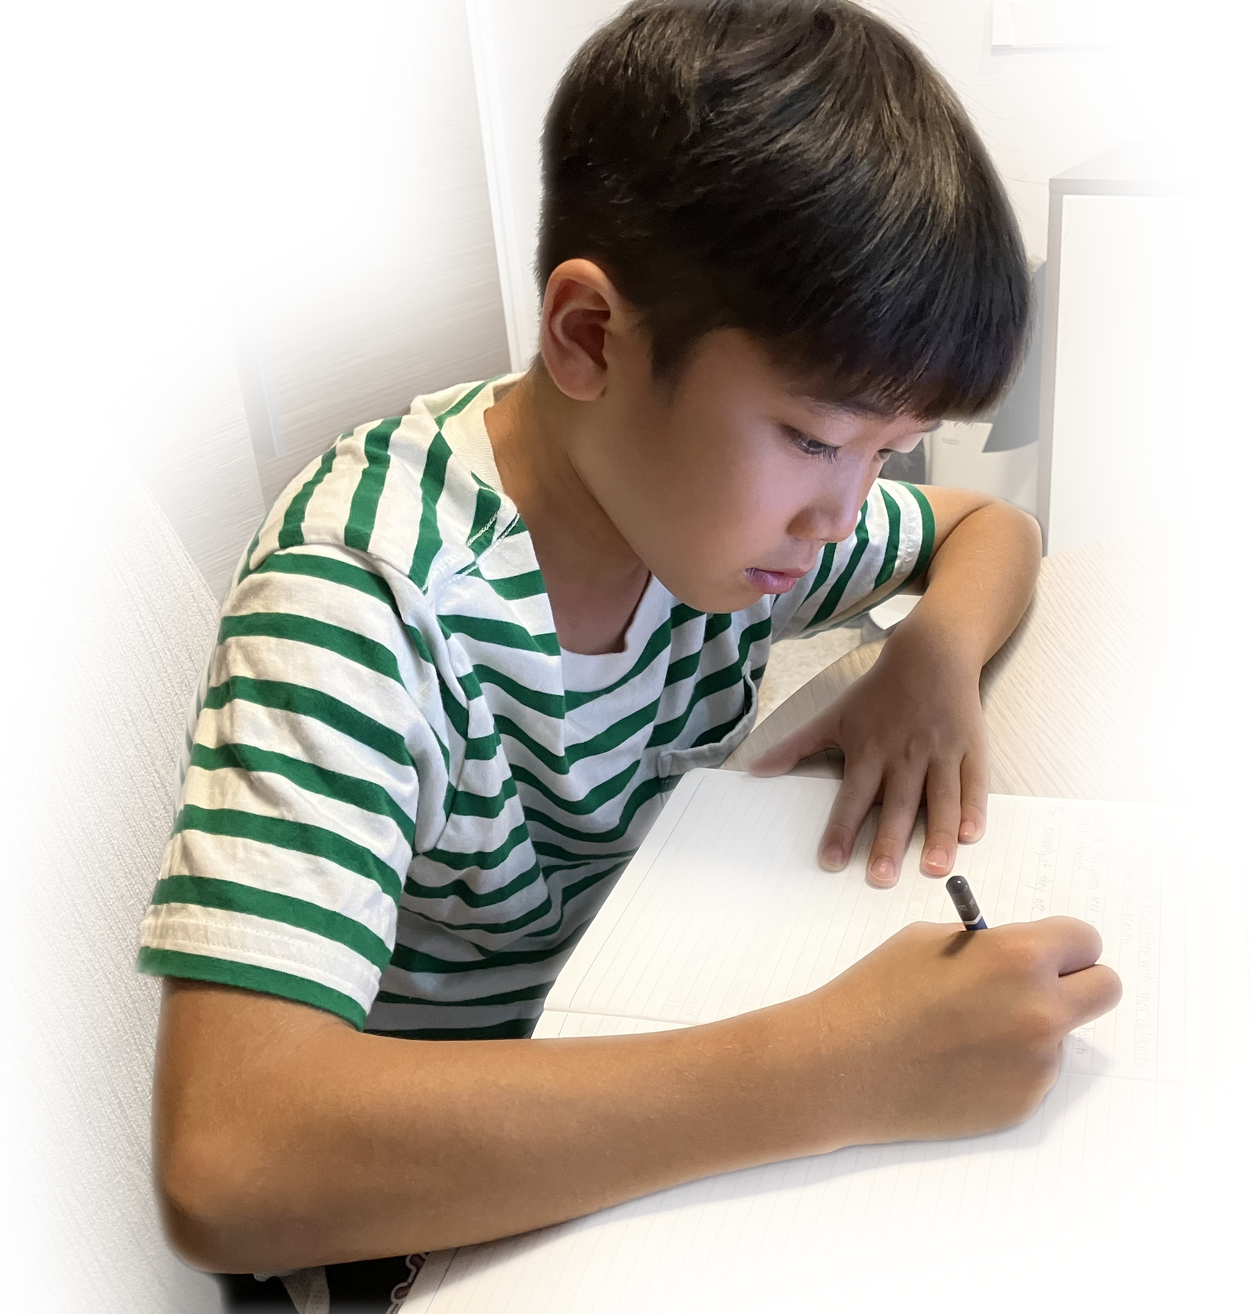
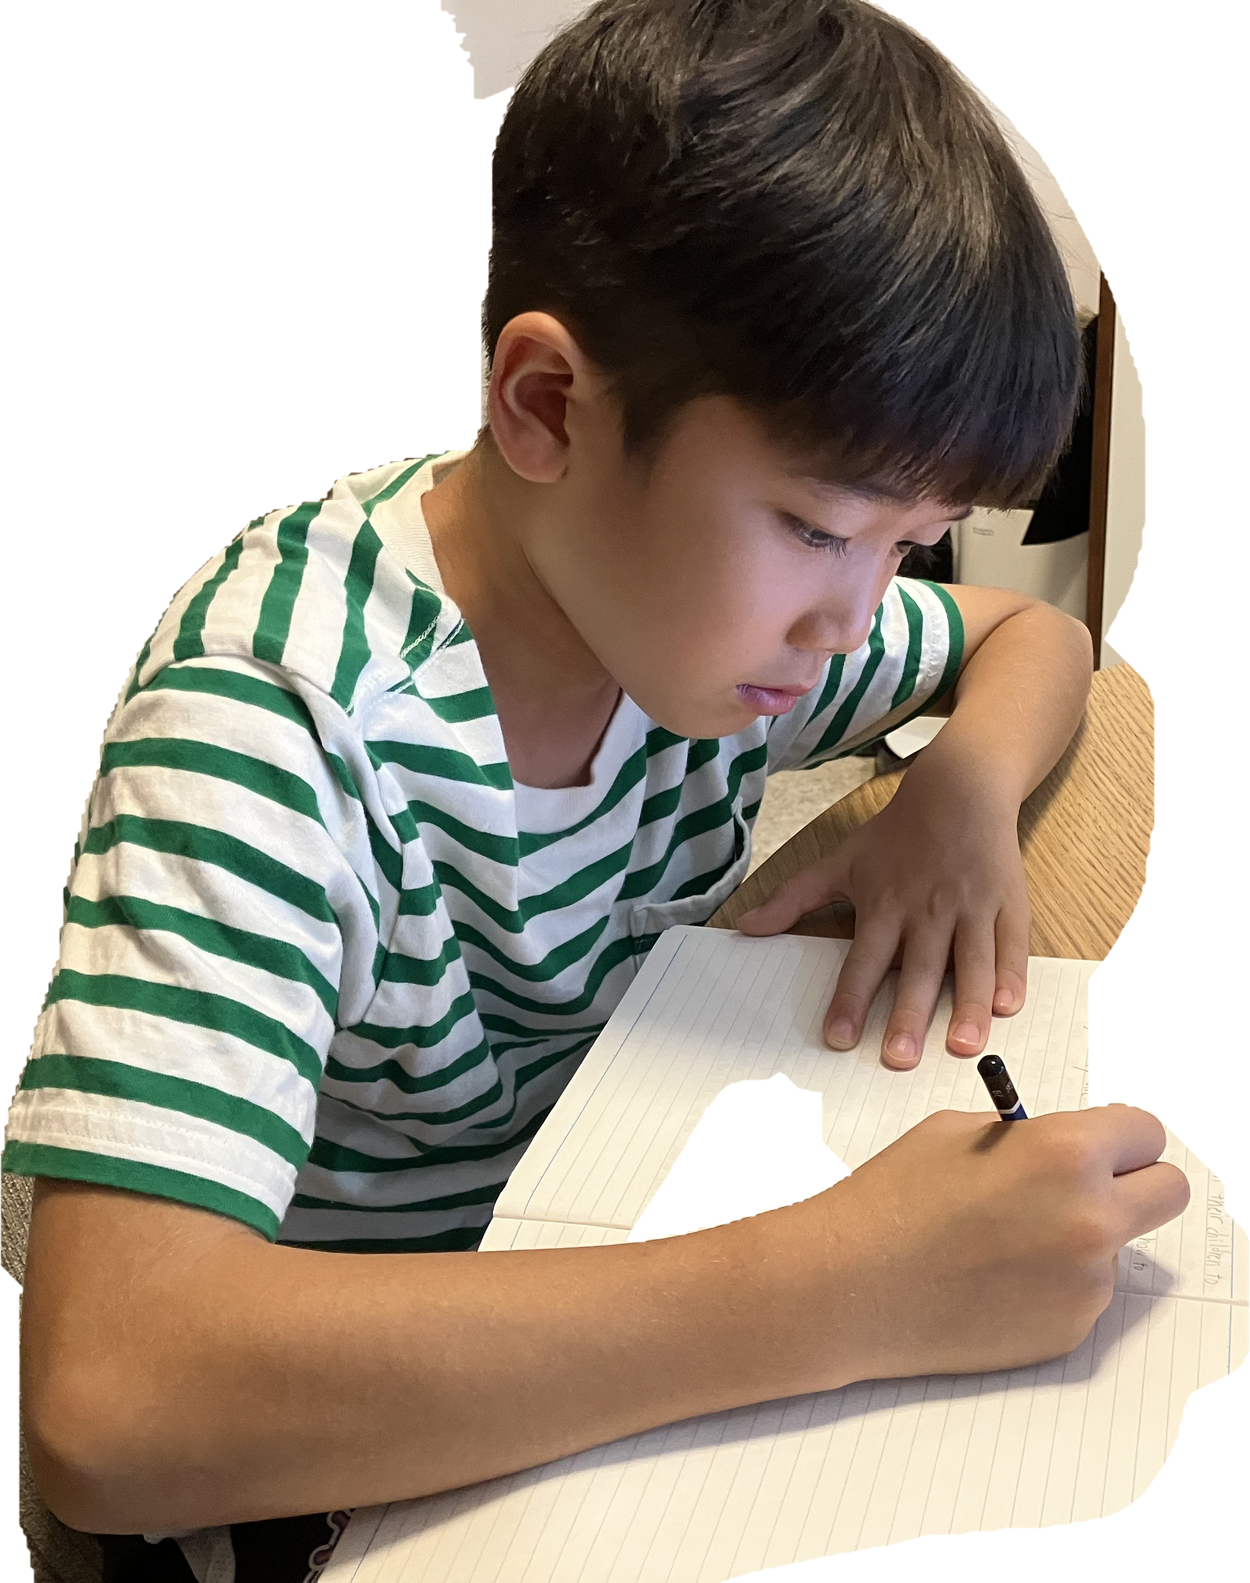
FVを綺麗な切り抜きに（人物＋勉強道具・端はぼかさない）／動画をその場で再生／差し色を黄に／声の上の帯を削除／濃い緑の面＋白いカードで後半の白さを解消

diff --git a/docs/esl/index.html b/docs/esl/index.html
@@ -29,8 +29,9 @@
   --c-primary-2:#6CBB00;    /* 黄緑。線・小ラベル・アイコンのみ。面に塗らない */
   --c-support:#00B63A;      /* 補強。小さく1点 */
   --c-support2:#FFEE03;     /* 補強。小さく1点 */
-  --c-accent:#FF9301;
-  --c-accent-d:#D97A00;       /* 差し色。最小の1点にだけ */
+  --c-accent:#FFEE03;       /* 差し色（黄）。最小の1点にだけ */
+  --c-accent-d:#E0CF00;
+  --c-on-accent:#303030;    /* 黄の上は墨。白は乗らない */
   --c-ink:#303030;
   --c-ink2:#4A4A4A;
   --c-ink3:#707070;
@@ -122,6 +123,16 @@ ul,ol{padding:0;list-style:none}
 /* ブランド色の面。白ばかりにならないよう、白／薄グレーと交互に使う */
 .tone-accent{background:var(--c-primary-l)}
 .tone-pale{background:linear-gradient(180deg,#F4F9EE 0%,var(--c-primary-l) 100%)}
+/* ブランド色のベタ面。前に白いブロックを置くのが条件 */
+.tone-brand{background:var(--c-primary);color:var(--c-on-primary);position:relative;overflow:hidden}
+.tone-brand .sec-head__ja{color:var(--c-on-primary)}
+.tone-brand .sec-head__sub{color:rgba(255,255,255,.86)}
+.tone-brand .sec-head::after{background:var(--c-accent)}
+/* 濃い緑の上に置く箱は白。中の文字は元の色に戻す */
+.tone-brand .card,.tone-brand .nch__chip,.tone-brand .cmx__grid{background:var(--c-bg)}
+.tone-brand .nch__chip{color:var(--c-ink);border-color:transparent}
+.tone-brand .nch__note{color:rgba(255,255,255,.8)}
+
 /* ★#262626 の面。前に大きめの白いブロックを置くことが条件 */
 .tone-deep,.tone-dark{background:var(--c-dark);color:var(--c-on-dark2)}
 
@@ -588,10 +599,14 @@ html:not(.js) .lm__i{transform:none}
 .gvb__grid{display:grid;grid-template-columns:repeat(2,minmax(0,1fr));gap:clamp(18px,3vw,40px)}
 .gvb__item{margin:0}
 .gvb__card{display:block;transition:transform .16s var(--e)}
-.gvb__thumb{position:relative;display:block;border-radius:22px;overflow:hidden;
+.gvb__thumb{display:block;width:100%;padding:0;border:0;background:none;cursor:pointer}
+.gvb__thumb{position:relative;border-radius:22px;overflow:hidden;
   border:6px solid var(--c-primary-2);background:var(--c-bg2)}
 .gvb__item:nth-child(even) .gvb__thumb{border-color:var(--c-primary)}
 .gvb__thumb img{width:100%;aspect-ratio:16/10;object-fit:cover;display:block}
+/* 押すとその場で YouTube に差し替わる */
+.gvb__thumb iframe{width:100%;aspect-ratio:16/10;display:block;border:0}
+.gvb__thumb.is-play .gvb__play{display:none}
 /* 再生ボタン：右下・円・縁と同じ色 */
 .gvb__play{position:absolute;right:16px;bottom:16px;width:clamp(44px,4.6vw,64px);aspect-ratio:1;
   border-radius:50%;background:var(--c-primary-2);display:grid;place-content:center}
@@ -603,6 +618,7 @@ html:not(.js) .lm__i{transform:none}
 .gvb__item:nth-child(even) .gvb__card{transform:rotate(1.1deg)}
 @media(hover:hover) and (pointer:fine){.gvb__card:hover{transform:rotate(0) translateY(-4px)}}
 .gvb__cap{display:block;margin-top:14px;text-align:center}
+.gvb__cap b,.gvb__cap em{display:block}
 .gvb__cap b{display:block;font-size:clamp(11px,.9vw,12.5px);color:var(--c-ink3);font-weight:700}
 .gvb__cap em{display:block;margin-top:3px;font-style:normal;
   font-size:clamp(15px,1.4vw,19px);font-weight:900;color:var(--c-ink)}
@@ -935,13 +951,10 @@ html:not(.js) .lm__i{transform:none}
 /* ===== voice/voice-band-illustration ===== */
 /* voice/voice-band-illustration
    トミーそろばん教室の作りを再現して起こした型。
-   ・セクションの上端に【色の帯】を敷く
    ・左に小さな人物、右に 見出し（ブランド色）→ 属性 → 本文
    ・見出しはブランド色。本文は行間を広めに取って長文でも読ませる
    再現の記録: repro/vbi/ */
 .vbi{position:relative}
-.vbi__band{position:absolute;left:0;right:0;top:0;height:clamp(28px,3.4vw,46px);
-  background:var(--c-support2);opacity:.85}
 .vbi .wrap{position:relative;z-index:1}
 
 .vbi__list{display:grid;gap:clamp(30px,4.6vw,64px)}
@@ -1842,27 +1855,23 @@ html:not(.js) .lm__i{transform:none}
     </div>
     <ul class="gvb__grid">
       <li class="gvb__item fx" data-fx="fadeup" data-d="0">
-        <a class="gvb__card" href="https://www.youtube.com/watch?v=7TLrJshYhXY" target="_blank" rel="noopener">
-          <span class="gvb__thumb">
+        <div class="gvb__card">
+          <button class="gvb__thumb" type="button" data-yt="7TLrJshYhXY"
+                  aria-label="ハシモトカズマくん のレッスン動画を再生">
             <img src="img/yt_1.jpg" alt="小3男子 初学者のレッスン" loading="lazy">
             <span class="gvb__play" aria-hidden="true"></span>
-          </span>
-          <span class="gvb__cap">
-            <b>小3男子　初学者</b>
-            <em>ハシモトカズマくん</em>
-          </span>
-        </a>
+          </button>
+          <p class="gvb__cap"><b>小3男子　初学者</b><em>ハシモトカズマくん</em></p>
+        </div>
       </li><li class="gvb__item fx" data-fx="fadeup" data-d="90">
-        <a class="gvb__card" href="https://www.youtube.com/watch?v=d1pNo4ETKYc" target="_blank" rel="noopener">
-          <span class="gvb__thumb">
+        <div class="gvb__card">
+          <button class="gvb__thumb" type="button" data-yt="d1pNo4ETKYc"
+                  aria-label="オオツカキサちゃん のレッスン動画を再生">
             <img src="img/yt_2.jpg" alt="小4女子 学習経験者のレッスン" loading="lazy">
             <span class="gvb__play" aria-hidden="true"></span>
-          </span>
-          <span class="gvb__cap">
-            <b>小4女子　学習経験者</b>
-            <em>オオツカキサちゃん</em>
-          </span>
-        </a>
+          </button>
+          <p class="gvb__cap"><b>小4女子　学習経験者</b><em>オオツカキサちゃん</em></p>
+        </div>
       </li>
     </ul>
     
@@ -2062,7 +2071,6 @@ html:not(.js) .lm__i{transform:none}
 <!-- voice/voice-band-illustration (tint) -->
 <div class="tone-tint">
 <section class="sec vbi">
-  <span class="vbi__band" aria-hidden="true"></span>
   <div class="wrap">
     <div class="sec-head">
       
@@ -2099,8 +2107,8 @@ html:not(.js) .lm__i{transform:none}
 </section>
 
 </div>
-<!-- numbers/numbers-chip-row (base) -->
-<div class="tone-base">
+<!-- numbers/numbers-chip-row (brand) -->
+<div class="tone-brand">
 <section class="sec nch nch--wordy">
   <div class="wrap">
 
@@ -2809,6 +2817,23 @@ document.documentElement.classList.add('js');
   }
   addEventListener('scroll',check,{passive:true}); addEventListener('resize',check,{passive:true});
   setTimeout(check,120);
+})();
+
+/* ── 動画をその場で再生 ─────────────────────
+   サムネイルを押したら YouTube の埋め込みに差し替える。
+   最初から iframe を置くと読み込みが重く、外部に足跡も残るため押されてから作る。 */
+(function(){
+  document.querySelectorAll('[data-yt]').forEach(function(b){
+    b.addEventListener('click',function(){
+      var id=b.dataset.yt; if(!id||b.classList.contains('is-play')) return;
+      var f=document.createElement('iframe');
+      f.src='https://www.youtube-nocookie.com/embed/'+id+'?autoplay=1&rel=0&playsinline=1';
+      f.title=b.getAttribute('aria-label')||'';
+      f.allow='accelerometer;autoplay;clipboard-write;encrypted-media;gyroscope;picture-in-picture';
+      f.setAttribute('allowfullscreen','');
+      b.innerHTML=''; b.appendChild(f); b.classList.add('is-play');
+    });
+  });
 })();
 </script>
 </body>

diff --git a/parts/gallery/gallery-video-cards-bordered/part.css b/parts/gallery/gallery-video-cards-bordered/part.css
@@ -7,10 +7,14 @@
 .gvb__grid{display:grid;grid-template-columns:repeat(2,minmax(0,1fr));gap:clamp(18px,3vw,40px)}
 .gvb__item{margin:0}
 .gvb__card{display:block;transition:transform .16s var(--e)}
-.gvb__thumb{position:relative;display:block;border-radius:22px;overflow:hidden;
+.gvb__thumb{display:block;width:100%;padding:0;border:0;background:none;cursor:pointer}
+.gvb__thumb{position:relative;border-radius:22px;overflow:hidden;
   border:6px solid var(--c-primary-2);background:var(--c-bg2)}
 .gvb__item:nth-child(even) .gvb__thumb{border-color:var(--c-primary)}
 .gvb__thumb img{width:100%;aspect-ratio:16/10;object-fit:cover;display:block}
+/* 押すとその場で YouTube に差し替わる */
+.gvb__thumb iframe{width:100%;aspect-ratio:16/10;display:block;border:0}
+.gvb__thumb.is-play .gvb__play{display:none}
 /* 再生ボタン：右下・円・縁と同じ色 */
 .gvb__play{position:absolute;right:16px;bottom:16px;width:clamp(44px,4.6vw,64px);aspect-ratio:1;
   border-radius:50%;background:var(--c-primary-2);display:grid;place-content:center}
@@ -22,6 +26,7 @@
 .gvb__item:nth-child(even) .gvb__card{transform:rotate(1.1deg)}
 @media(hover:hover) and (pointer:fine){.gvb__card:hover{transform:rotate(0) translateY(-4px)}}
 .gvb__cap{display:block;margin-top:14px;text-align:center}
+.gvb__cap b,.gvb__cap em{display:block}
 .gvb__cap b{display:block;font-size:clamp(11px,.9vw,12.5px);color:var(--c-ink3);font-weight:700}
 .gvb__cap em{display:block;margin-top:3px;font-style:normal;
   font-size:clamp(15px,1.4vw,19px);font-weight:900;color:var(--c-ink)}

diff --git a/parts/_base.css b/parts/_base.css
@@ -26,6 +26,16 @@ ul,ol{padding:0;list-style:none}
 /* ブランド色の面。白ばかりにならないよう、白／薄グレーと交互に使う */
 .tone-accent{background:var(--c-primary-l)}
 .tone-pale{background:linear-gradient(180deg,#F4F9EE 0%,var(--c-primary-l) 100%)}
+/* ブランド色のベタ面。前に白いブロックを置くのが条件 */
+.tone-brand{background:var(--c-primary);color:var(--c-on-primary);position:relative;overflow:hidden}
+.tone-brand .sec-head__ja{color:var(--c-on-primary)}
+.tone-brand .sec-head__sub{color:rgba(255,255,255,.86)}
+.tone-brand .sec-head::after{background:var(--c-accent)}
+/* 濃い緑の上に置く箱は白。中の文字は元の色に戻す */
+.tone-brand .card,.tone-brand .nch__chip,.tone-brand .cmx__grid{background:var(--c-bg)}
+.tone-brand .nch__chip{color:var(--c-ink);border-color:transparent}
+.tone-brand .nch__note{color:rgba(255,255,255,.8)}
+
 /* ★#262626 の面。前に大きめの白いブロックを置くことが条件 */
 .tone-deep,.tone-dark{background:var(--c-dark);color:var(--c-on-dark2)}
 

diff --git a/parts/gallery/gallery-video-cards-bordered/part.html b/parts/gallery/gallery-video-cards-bordered/part.html
@@ -7,16 +7,14 @@
     </div>
     <ul class="gvb__grid">
       {{#items}}<li class="gvb__item fx" data-fx="fadeup" data-d="{{.d}}">
-        <a class="gvb__card" href="{{.href}}" target="_blank" rel="noopener">
-          <span class="gvb__thumb">
+        <div class="gvb__card">
+          <button class="gvb__thumb" type="button" data-yt="{{.yt}}"
+                  aria-label="{{.name}} のレッスン動画を再生">
             <img src="{{.thumb}}" alt="{{.alt}}" loading="lazy">
             <span class="gvb__play" aria-hidden="true"></span>
-          </span>
-          <span class="gvb__cap">
-            <b>{{.meta}}</b>
-            <em>{{.name}}</em>
-          </span>
-        </a>
+          </button>
+          <p class="gvb__cap"><b>{{.meta}}</b><em>{{.name}}</em></p>
+        </div>
       </li>{{/items}}
     </ul>
     {{?note}}<p class="gvb__note">{{note}}</p>{{/note}}

diff --git a/parts/voice/voice-band-illustration/part.css b/parts/voice/voice-band-illustration/part.css
@@ -1,12 +1,9 @@
 /* voice/voice-band-illustration
    トミーそろばん教室の作りを再現して起こした型。
-   ・セクションの上端に【色の帯】を敷く
    ・左に小さな人物、右に 見出し（ブランド色）→ 属性 → 本文
    ・見出しはブランド色。本文は行間を広めに取って長文でも読ませる
    再現の記録: repro/vbi/ */
 .vbi{position:relative}
-.vbi__band{position:absolute;left:0;right:0;top:0;height:clamp(28px,3.4vw,46px);
-  background:var(--c-support2);opacity:.85}
 .vbi .wrap{position:relative;z-index:1}
 
 .vbi__list{display:grid;gap:clamp(30px,4.6vw,64px)}

diff --git a/parts/_tokens.css b/parts/_tokens.css
@@ -19,8 +19,9 @@
   --c-primary-2:#6CBB00;    /* 黄緑。線・小ラベル・アイコンのみ。面に塗らない */
   --c-support:#00B63A;      /* 補強。小さく1点 */
   --c-support2:#FFEE03;     /* 補強。小さく1点 */
-  --c-accent:#FF9301;
-  --c-accent-d:#D97A00;       /* 差し色。最小の1点にだけ */
+  --c-accent:#FFEE03;       /* 差し色（黄）。最小の1点にだけ */
+  --c-accent-d:#E0CF00;
+  --c-on-accent:#303030;    /* 黄の上は墨。白は乗らない */
   --c-ink:#303030;
   --c-ink2:#4A4A4A;
   --c-ink3:#707070;

diff --git a/parts/voice/voice-band-illustration/part.html b/parts/voice/voice-band-illustration/part.html
@@ -1,5 +1,4 @@
 <section class="sec vbi">
-  <span class="vbi__band" aria-hidden="true"></span>
   <div class="wrap">
     <div class="sec-head">
       {{?eyebrow}}<p class="sec-head__en">{{eyebrow}}</p>{{/eyebrow}}

diff --git a/build.py b/build.py
@@ -195,6 +195,23 @@ document.documentElement.classList.add('js');
   addEventListener('scroll',check,{passive:true}); addEventListener('resize',check,{passive:true});
   setTimeout(check,120);
 })();
+
+/* ── 動画をその場で再生 ─────────────────────
+   サムネイルを押したら YouTube の埋め込みに差し替える。
+   最初から iframe を置くと読み込みが重く、外部に足跡も残るため押されてから作る。 */
+(function(){
+  document.querySelectorAll('[data-yt]').forEach(function(b){
+    b.addEventListener('click',function(){
+      var id=b.dataset.yt; if(!id||b.classList.contains('is-play')) return;
+      var f=document.createElement('iframe');
+      f.src='https://www.youtube-nocookie.com/embed/'+id+'?autoplay=1&rel=0&playsinline=1';
+      f.title=b.getAttribute('aria-label')||'';
+      f.allow='accelerometer;autoplay;clipboard-write;encrypted-media;gyroscope;picture-in-picture';
+      f.setAttribute('allowfullscreen','');
+      b.innerHTML=''; b.appendChild(f); b.classList.add('is-play');
+    });
+  });
+})();
 """
 
 
